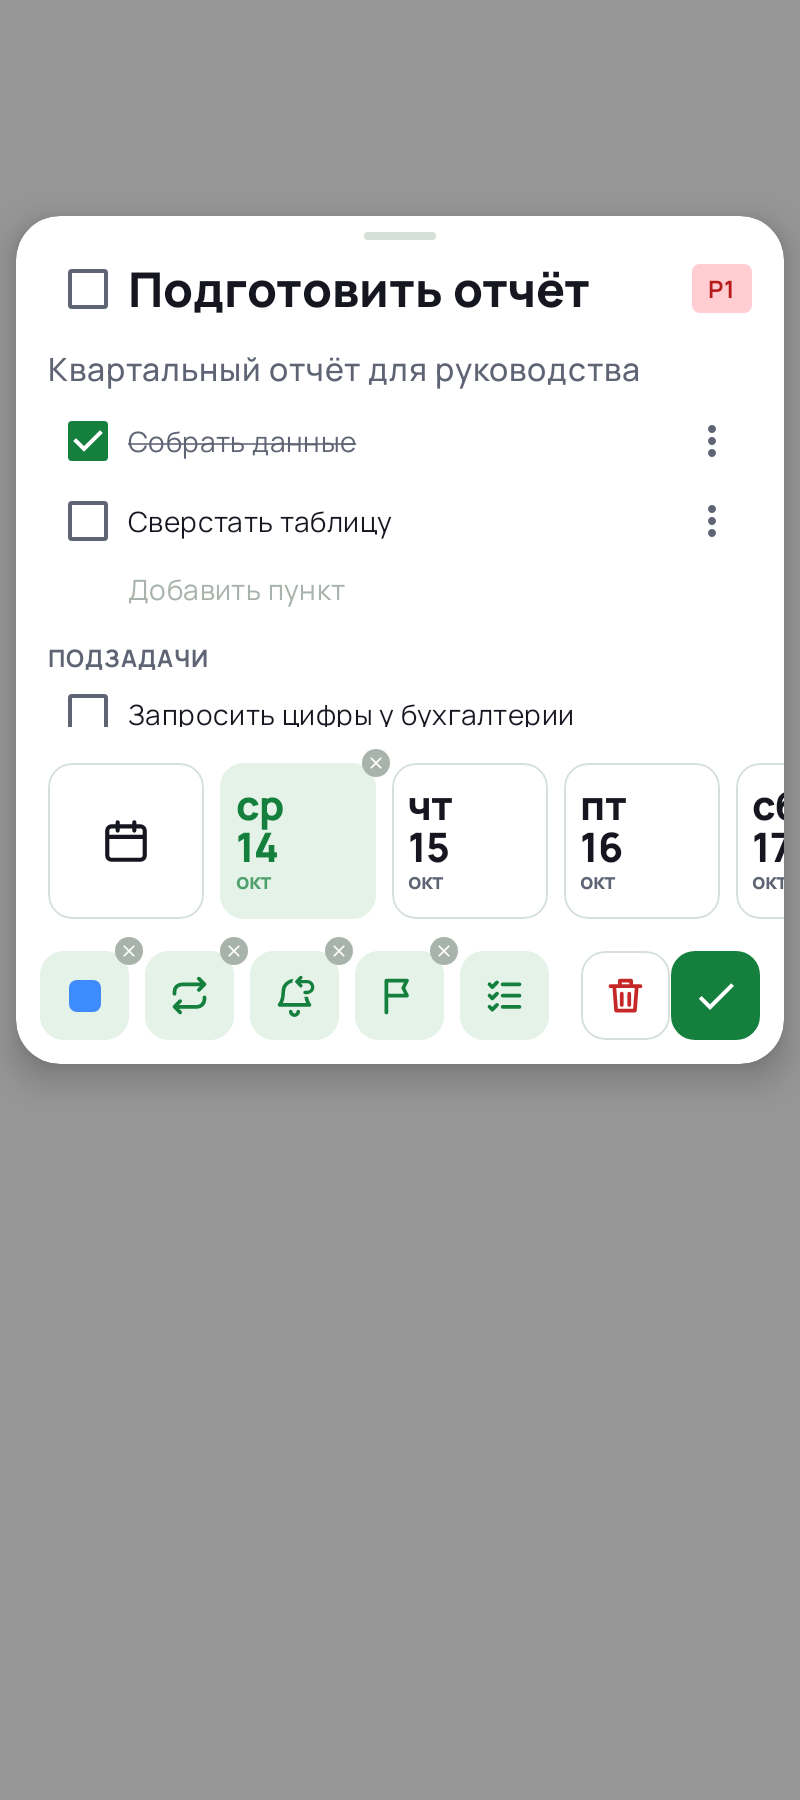
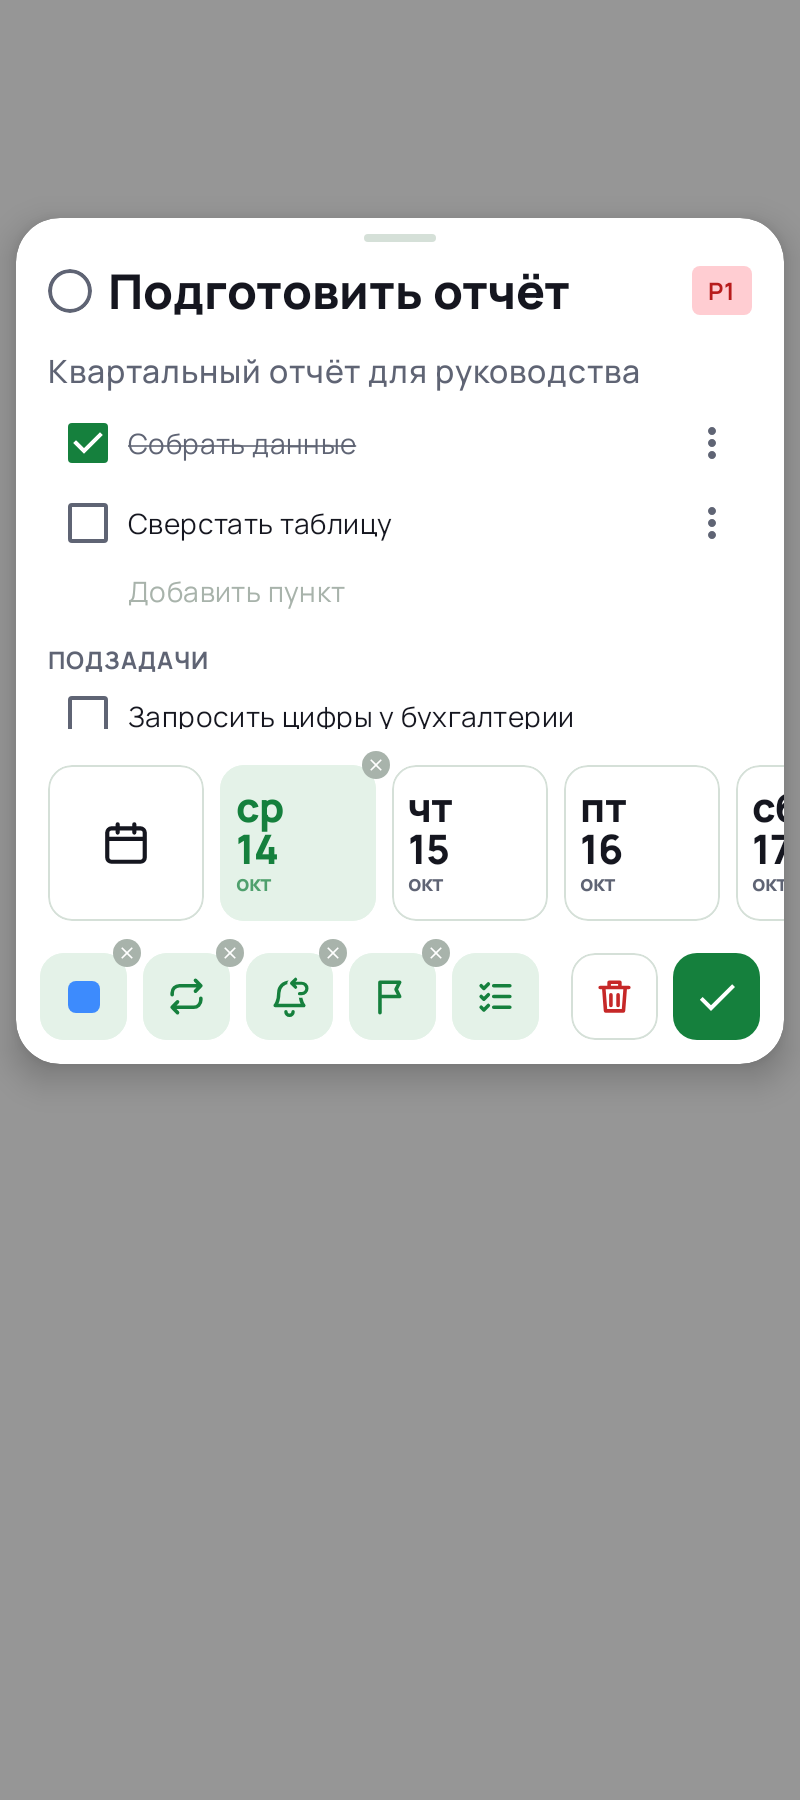
0.31.2: без кольца у полоски, окно задачи — круглая отметка, отступ корзины, бледнее иконки без даты
Claude-Session: https://claude.ai/code/session_015FwwajEv4Pe9GNk24oanC3

diff --git a/app/src/main/java/com/prostovasei/simpletasks/notifications/ReminderPopup.kt b/app/src/main/java/com/prostovasei/simpletasks/notifications/ReminderPopup.kt
@@ -8,7 +8,6 @@ import android.os.Handler
 import android.os.Looper
 import android.os.PowerManager
 import android.provider.Settings
-import android.view.Choreographer
 import android.view.Gravity
 import android.view.WindowManager
 import android.widget.FrameLayout
@@ -49,13 +48,9 @@ import androidx.compose.runtime.setValue
 import androidx.compose.ui.Alignment
 import androidx.compose.ui.Modifier
 import androidx.compose.ui.draw.clip
-import androidx.compose.ui.draw.drawBehind
 import androidx.compose.ui.draw.drawWithContent
-import androidx.compose.ui.geometry.CornerRadius
 import androidx.compose.ui.geometry.Offset
 import androidx.compose.ui.geometry.Size
-import androidx.compose.ui.graphics.Color
-import androidx.compose.ui.graphics.drawscope.DrawScope
 import androidx.compose.ui.graphics.graphicsLayer
 import androidx.compose.ui.input.pointer.pointerInput
 import androidx.compose.ui.platform.ComposeView
@@ -98,7 +93,6 @@ import kotlinx.coroutines.launch
 import kotlinx.coroutines.withContext
 import javax.inject.Inject
 import javax.inject.Singleton
-import kotlin.math.floor
 import kotlin.math.roundToInt
 
 /*
@@ -271,23 +265,10 @@ private class Overlay(private val context: Context, private val content: @Compos
         manager.addView(view, params)
         PopupTrace.add(context, "окно добавлено")
         // Пульс процесса: идёт — приложение живо (застряли только кадры); молчит — Samsung его заморозил.
-        // Тики (0.31.1) — сигналы экрана «пора рисовать», которые приложение просит каждый кадр: тики идут, а кадров
-        // нет — окно не перерисовывается; тиков нет — телефон не даёт их приложению.
-        Choreographer.getInstance().postFrameCallback(tick)
-        repeat(TRACE_PULSES) { i ->
-            main.postDelayed({ PopupTrace.add(context, "пульс ${i + 1}: кадров $draws, тиков $ticks") }, TRACE_PULSE_MS * (i + 1))
-        }
-    }
-
-    private var ticks = 0
-    private val tick = object : Choreographer.FrameCallback {
-        override fun doFrame(frameTimeNanos: Long) {
-            if (++ticks < TRACE_TICKS) Choreographer.getInstance().postFrameCallback(this)
-        }
+        repeat(TRACE_PULSES) { i -> main.postDelayed({ PopupTrace.add(context, "пульс ${i + 1}: кадров $draws") }, TRACE_PULSE_MS * (i + 1)) }
     }
 
     fun detach() {
-        Choreographer.getInstance().removeFrameCallback(tick)
         main.removeCallbacksAndMessages(null)
         runCatching { manager.removeView(view) }
         owner.stop()
@@ -297,9 +278,6 @@ private class Overlay(private val context: Context, private val content: @Compos
 private const val TRACE_DRAWS = 5
 private const val TRACE_PULSES = 6
 private const val TRACE_PULSE_MS = 500L
-
-/** Тики считаются примерно 3 с (при 60–120 Гц), дальше не просим — не тратить батарею. */
-private const val TRACE_TICKS = 360
 
 private class OverlayOwner : LifecycleOwner, SavedStateRegistryOwner {
     private val registry = LifecycleRegistry(this)
@@ -377,7 +355,6 @@ private fun Strip(strip: PopupStrip, onDone: (String) -> Unit, onTomorrow: (Stri
     val context = LocalContext.current
     val animate = remember { animationsEnabled(context) }
     val offset = remember { Animatable(0f) }
-    val pulse = remember { Animatable(0f) }
     val dust = remember { Animatable(0f) }
     val flip = remember { Animatable(0f) }
     val drop = remember { Animatable(0f) }
@@ -386,19 +363,13 @@ private fun Strip(strip: PopupStrip, onDone: (String) -> Unit, onTomorrow: (Stri
     val scope = rememberCoroutineScope()
     val density = LocalDensity.current
     val threshold = with(density) { SizeTokens.POPUP_SWIPE.dp.toPx() }
-    val spread = with(density) { SizeTokens.POPUP_PULSE.dp.toPx() }
     val particleSize = with(density) { AppTheme.sizes.dustParticle.toPx() }
     val particles = remember(strip.taskId) { dustParticles(strip.taskId.hashCode(), lift = DUST_LIFT) }
     val dustColors = listOf(colors.accent, colors.accentSoft, colors.accent.copy(alpha = DUST_FADED))
 
     // 0.31.1 (журнал PM): полоска сразу на месте, без выезда — окну поверх чужого приложения телефон может не давать
-    // кадров до касания, и выезд застревал на полпути. Кольцо «Пульс» — украшение: нет кадров — его просто не видно.
-    LaunchedEffect(Unit) {
-        PopupTrace.add(context, "полоска на месте сразу; кольцо: старт (анимации ${if (animate) "вкл" else "выкл"})")
-        if (!animate) return@LaunchedEffect
-        pulse.animateTo(PULSES, tween(PULSE_MS, easing = LinearEasing))
-        PopupTrace.add(context, "кольцо доиграло")
-    }
+    // кадров до касания, и выезд застревал на полпути. 0.31.2: кольцо «Пульс» убрано — оно играло с опозданием.
+    LaunchedEffect(Unit) { PopupTrace.add(context, "полоска на месте сразу (анимации ${if (animate) "вкл" else "выкл"})") }
 
     fun leave(action: (String) -> Unit, motion: suspend () -> Unit) {
         if (leaving) return
@@ -441,7 +412,6 @@ private fun Strip(strip: PopupStrip, onDone: (String) -> Unit, onTomorrow: (Stri
                 rotationX = if (flip.value < HALF) flip.value / HALF * QUARTER_TURN else (flip.value / HALF - 2f) * QUARTER_TURN
                 cameraDistance = CAMERA_DISTANCE * density.density
             }
-            .drawBehind { pulseRing(pulse.value, spread, colors.accent) }
             .dust({ dust.value }, particles, particleSize, dustColors)
             .clip(CircleShape)
             .background(colors.accent)
@@ -555,20 +525,6 @@ private fun UndoStrip(strip: PopupStrip, onUndo: (String) -> Unit, onExpire: (St
     }
 }
 
-/** Кольцо «Пульса»: [phase] от 0 до [PULSES], каждое кольцо расходится на [spread] и тает. */
-private fun DrawScope.pulseRing(phase: Float, spread: Float, color: Color) {
-    if (phase <= 0f || phase >= PULSES) return
-    val t = phase - floor(phase)
-    val grow = t * spread
-    drawRoundRect(
-        color = color,
-        topLeft = Offset(-grow, -grow),
-        size = Size(size.width + grow * 2, size.height + grow * 2),
-        cornerRadius = CornerRadius(size.height / 2 + grow),
-        alpha = RING_ALPHA * (1f - t),
-    )
-}
-
 /** Анимации выключены в настройках телефона («Масштаб анимации» — откл.). */
 private fun animationsEnabled(context: Context): Boolean =
     Settings.Global.getFloat(context.contentResolver, Settings.Global.ANIMATOR_DURATION_SCALE, 1f) > 0f
@@ -579,9 +535,6 @@ private const val UNDO_MS = 1500
 private const val SWIPE_OUT_MS = 180
 private const val SWIPE_FADE = 0.7f
 private const val UNDO_LINE_ALPHA = 0.6f
-private const val PULSE_MS = 1100
-private const val PULSES = 2f
-private const val RING_ALPHA = 0.55f
 private const val STRIP_DUST_MS = 600
 private const val FLIP_OUT_MS = 200
 private const val FLIP_IN_MS = 220

diff --git a/app/src/main/java/com/prostovasei/simpletasks/ui/feature/task/TaskDetailScreen.kt b/app/src/main/java/com/prostovasei/simpletasks/ui/feature/task/TaskDetailScreen.kt
@@ -1,5 +1,7 @@
 package com.prostovasei.simpletasks.ui.feature.task
 
+import androidx.compose.foundation.background
+import androidx.compose.foundation.border
 import androidx.compose.foundation.clickable
 import androidx.compose.foundation.layout.Box
 import androidx.compose.foundation.layout.Row
@@ -8,7 +10,10 @@ import androidx.compose.foundation.layout.fillMaxWidth
 import androidx.compose.foundation.layout.padding
 import androidx.compose.foundation.layout.size
 import androidx.compose.foundation.layout.statusBarsPadding
+import androidx.compose.foundation.selection.toggleable
+import androidx.compose.foundation.shape.CircleShape
 import androidx.compose.material.icons.Icons
+import androidx.compose.material.icons.filled.Check
 import androidx.compose.material.icons.filled.MoreVert
 import androidx.compose.material3.Checkbox
 import androidx.compose.material3.CheckboxDefaults
@@ -29,10 +34,14 @@ import androidx.compose.runtime.saveable.rememberSaveable
 import androidx.compose.runtime.setValue
 import androidx.compose.ui.Alignment
 import androidx.compose.ui.Modifier
+import androidx.compose.ui.draw.clip
 import androidx.compose.ui.focus.FocusRequester
 import androidx.compose.ui.focus.focusRequester
 import androidx.compose.ui.platform.testTag
 import androidx.compose.ui.res.stringResource
+import androidx.compose.ui.semantics.Role
+import androidx.compose.ui.semantics.contentDescription
+import androidx.compose.ui.semantics.semantics
 import androidx.compose.ui.text.font.FontWeight
 import androidx.compose.ui.text.input.ImeAction
 import androidx.compose.ui.text.style.TextDecoration
@@ -131,7 +140,7 @@ fun TaskDetailScreen(
         },
     ) {
         Row(verticalAlignment = Alignment.CenterVertically) {
-            SheetCheckbox(done, Modifier.testTag(TAG_DETAIL_DONE)) { onIntent(TaskDetailIntent.ToggleCompleted) }
+            DoneCircle(done, Modifier.testTag(TAG_DETAIL_DONE)) { onIntent(TaskDetailIntent.ToggleCompleted) }
             CompactField(
                 value = task.title,
                 onValueChange = { onIntent(TaskDetailIntent.Title(it)) },
@@ -198,6 +207,30 @@ fun TaskDetailScreen(
             onConfirm = { onIntent(TaskDetailIntent.RenameItem(it)) },
             onDismiss = { onIntent(TaskDetailIntent.DismissRename) },
         )
+    }
+}
+
+/**
+ * Отметка «выполнено» у названия (0.31.2, решение PM): круглая и вплотную к левому краю — как описание под ней.
+ * Видимый кружок небольшой, зона нажатия шире него (поля вокруг входят в нажатие).
+ */
+@Composable
+private fun DoneCircle(checked: Boolean, modifier: Modifier = Modifier, onToggle: () -> Unit) {
+    val colors = AppTheme.colors
+    val sizes = AppTheme.sizes
+    val spacing = AppTheme.spacing
+    val description = stringResource(R.string.notification_complete)
+    Box(
+        modifier
+            .toggleable(value = checked, role = Role.Checkbox, onValueChange = { onToggle() })
+            .semantics { contentDescription = description }
+            .padding(end = spacing.xs, top = spacing.xs, bottom = spacing.xs)
+            .size(sizes.doneCircle)
+            .clip(CircleShape)
+            .then(if (checked) Modifier.background(colors.accent) else Modifier.border(sizes.checkboxStroke, colors.textSecondary, CircleShape)),
+        contentAlignment = Alignment.Center,
+    ) {
+        if (checked) Icon(Icons.Default.Check, null, tint = colors.onAccent, modifier = Modifier.size(sizes.doneCheck))
     }
 }
 

diff --git a/app/src/test/java/com/prostovasei/simpletasks/ui/feature/task/TaskScreensUiTest.kt b/app/src/test/java/com/prostovasei/simpletasks/ui/feature/task/TaskScreensUiTest.kt
@@ -14,6 +14,7 @@ import androidx.compose.ui.test.assertIsSelected
 import androidx.compose.ui.test.assertTextContains
 import androidx.compose.ui.test.assertTextEquals
 import androidx.compose.ui.test.click
+import androidx.compose.ui.test.getBoundsInRoot
 import androidx.compose.ui.test.junit4.v2.createComposeRule
 import androidx.compose.ui.test.onNodeWithContentDescription
 import androidx.compose.ui.test.onNodeWithTag
@@ -454,6 +455,34 @@ class TaskScreensUiTest {
     }
 
     @Test
+    fun detailToolbarKeepsGapsAndDoneCircleStaysAtLeftEdge() {
+        show { TaskDetailScreen(detailState, { intents += it }, {}, {}) }
+
+        // Корзина не прижата к галочке: щель не меньше обычной между кнопками (8 dp, с допуском на округление).
+        val list = composeRule.onNodeWithTag(TAG_TOOL_LIST).getBoundsInRoot()
+        val checklist = composeRule.onNodeWithTag(TAG_TOOL_CHECKLIST).getBoundsInRoot()
+        val delete = composeRule.onNodeWithTag(TAG_DETAIL_DELETE).getBoundsInRoot()
+        val close = composeRule.onNodeWithTag(TAG_DETAIL_CLOSE).getBoundsInRoot()
+        val gap = (close.left - delete.right).value
+        assertTrue("щель корзина–галочка $gap dp", gap >= 7.5f)
+        assertTrue("щель между кнопками панели", (composeRule.onNodeWithTag(TAG_TOOL_REPEAT).getBoundsInRoot().left - list.right).value >= 7.5f)
+        assertTrue("корзина не наезжает на чек-лист", delete.left >= checklist.right)
+        assertTrue("кнопки в пределах окна", close.right <= composeRule.onNodeWithTag(TAG_QUICK_CARD).getBoundsInRoot().right)
+
+        // Отметка «выполнено» — вплотную к левому краю текста, как описание под названием.
+        val done = composeRule.onNodeWithTag(TAG_DETAIL_DONE).getBoundsInRoot()
+        val content = composeRule.onNodeWithTag(TAG_DETAIL_CONTENT).getBoundsInRoot()
+        assertEquals(content.left.value, done.left.value, 0.5f)
+    }
+
+    @Test
+    fun doneCircleToggles() {
+        show { TaskDetailScreen(detailState, { intents += it }, {}, {}) }
+        composeRule.onNodeWithTag(TAG_DETAIL_DONE).assertIsOff().performClick()
+        assertEquals(listOf<Any>(TaskDetailIntent.ToggleCompleted), intents.filterNot { it is TaskDetailIntent.Grid })
+    }
+
+    @Test
     fun clearBadgesResetOnlyTheirField() {
         show { TaskDetailScreen(detailState, { intents += it }, {}, {}) }
         composeRule.onNodeWithTag(TAG_CLEAR_REMINDERS).performClick()
@@ -598,6 +627,13 @@ class TaskScreensUiTest {
     fun screenshotQuickAddLargeFont() {
         show { QuickAddScreen(quickState.copy(checklist = null, start = TaskDue.AtTime(Instant.parse("2026-10-15T10:00:00Z")), due = TaskDue.AtTime(Instant.parse("2026-10-15T11:30:00Z"))), {}, {}, autoFocus = false) }
         composeRule.onRoot().captureRoboImage("screenshots/quick_add_large_font.png")
+    }
+
+    /** Без даты: иконки повтора и уведомлений бледнее остальных (0.31.2). */
+    @Test
+    fun screenshotQuickAddNoDate() {
+        show { QuickAddScreen(QuickAddState(title = "Купить хлеб", projectId = "inbox", projects = projects, today = today, zone = zone), {}, {}, autoFocus = false) }
+        composeRule.onRoot().captureRoboImage("screenshots/quick_add_no_date.png")
     }
 
     @Test

diff --git a/app/src/main/java/com/prostovasei/simpletasks/ui/feature/task/TaskSheet.kt b/app/src/main/java/com/prostovasei/simpletasks/ui/feature/task/TaskSheet.kt
@@ -457,7 +457,9 @@ private fun SheetToolbar(
     }
     BoxWithConstraints(modifier.fillMaxWidth().padding(horizontal = spacing.sm, vertical = spacing.xs)) {
     val count = TOOLBAR_TOOLS + actionCount
-    val fit = ((maxWidth - spacing.xs * (count - 1)) / count).coerceAtMost(SizeTokens.TOOL_BUTTON.dp)
+    // В строке ещё и распорка между кнопками и действиями — поэтому щелей на одну больше, чем кнопок (0.31.2: раньше
+    // не считалась, и у созданной задачи корзина прижималась к галочке).
+    val fit = ((maxWidth - spacing.xs * count) / count).coerceAtMost(SizeTokens.TOOL_BUTTON.dp)
     CompositionLocalProvider(LocalToolButtonSize provides fit) {
     Row(
         modifier = Modifier.fillMaxWidth(),
@@ -633,7 +635,7 @@ private fun ToolButtonBody(
         if (icon != null) {
             val iconTint = when {
                 active -> colors.accent
-                dimmed -> colors.inactive
+                dimmed -> colors.inactive.copy(alpha = DIMMED_ICON_ALPHA)
                 else -> tint ?: colors.textSecondary
             }
             Icon(painterResource(icon), null, tint = iconTint, modifier = Modifier.size(LocalToolButtonSize.current * ICON_SHARE))
@@ -712,6 +714,9 @@ private const val HEADER_FRACTION = 0.45f
 
 /** Пока клавиатура ни разу не открывалась — её высота примерно 40% экрана. */
 private const val KEYBOARD_FALLBACK = 0.4f
+
+/** Иконка недоступной кнопки (нет даты) заметно бледнее доступных (0.31.2, решение PM). */
+private const val DIMMED_ICON_ALPHA = 0.6f
 
 const val TAG_QUICK_CARD = "quick_card"
 const val TAG_QUICK_SCRIM = "quick_scrim"

diff --git a/app/src/main/java/com/prostovasei/simpletasks/designsystem/tokens/DimensionTokens.kt b/app/src/main/java/com/prostovasei/simpletasks/designsystem/tokens/DimensionTokens.kt
@@ -156,13 +156,16 @@ object SizeTokens {
     const val POPUP_EDGE = 12
     const val POPUP_GAP = 8
     const val POPUP_SWIPE = 56
-    const val POPUP_PULSE = 8
     const val POPUP_UNDO_LINE = 3
     const val SHEET_REVEAL_BLUR = 8
     const val WIDGET_PROGRESS = 4
 
     /** Квадратная плитка дня в шторке (итерация 22): «чт / 22 / окт» и время. */
     const val DAY_TILE = 72
+
+    /** Круглая отметка «выполнено» у названия задачи (0.31.2) и галочка в ней. */
+    const val DONE_CIRCLE = 22
+    const val DONE_CHECK = 14
 
     /** Окна шторки задачи (итерация 31): наибольшая ширина (планшет, телефон боком) и высота строки варианта. */
     const val DIALOG_MAX_WIDTH = 420

diff --git a/app/src/main/java/com/prostovasei/simpletasks/designsystem/theme/AppDimensions.kt b/app/src/main/java/com/prostovasei/simpletasks/designsystem/theme/AppDimensions.kt
@@ -75,4 +75,6 @@ data class AppSizes(
     val dayTile: Dp = SizeTokens.DAY_TILE.dp,
     val dialogMaxWidth: Dp = SizeTokens.DIALOG_MAX_WIDTH.dp,
     val dialogRow: Dp = SizeTokens.DIALOG_ROW.dp,
+    val doneCircle: Dp = SizeTokens.DONE_CIRCLE.dp,
+    val doneCheck: Dp = SizeTokens.DONE_CHECK.dp,
 )

diff --git a/docs/HANDOFF.md b/docs/HANDOFF.md
@@ -5,7 +5,7 @@
 
 ## 1. Где мы
 
-- Последний релиз — **0.31.1**: полоска напоминания появляется сразу на месте без выезда (журнал PM: окну не давали кадров до касания), в журнале — тики кадров; ждём журнал PM. До него **0.31.0**: окна шторки задачи в едином виде (по центру, «Отмена»/«Готово»), новое окно повтора,
+- Последний релиз — **0.31.2**: полоска без кольца «Пульс» (без касания телефон не даёт кадров после ~4 мин простоя; полоска видна целиком — проверено PM), окно задачи: круглая отметка «выполнено» у левого края, корзина с нормальным отступом, тусклее иконки повтора и уведомлений без даты. До него 0.31.1 (полоска сразу на месте) и **0.31.0**: окна шторки задачи в едином виде (по центру, «Отмена»/«Готово»), новое окно повтора,
   уведомления с блоками «Основные»/«Созданные вручную» и общей историей, бледная только иконка у кнопок без даты
   (§4.34, макет `VariantD1` на холсте). До него 0.30.3 (полоска выезжает частично видимой: прозрачному окну Samsung
   не давал кадров; ждём проверку PM), 0.30.2 (журнал шагов полоски), 0.30.1 (полоска без вибрации) и **0.30.0**: утренняя сводка в 8:00 с озвучкой плана дня, прогресс дня в виджете, быстрее окно
